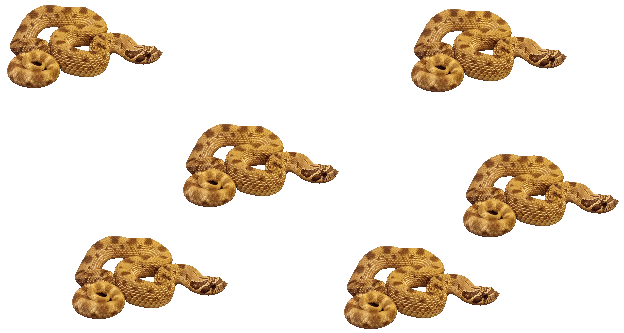
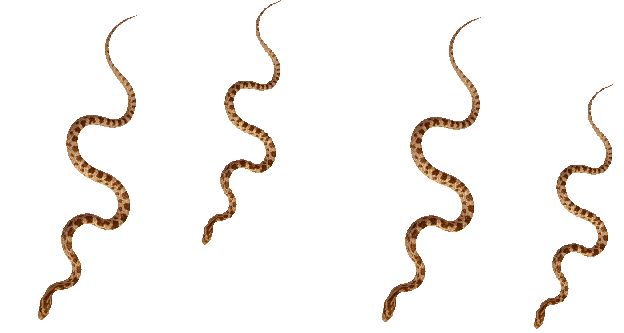
add animal rain

diff --git a/src/components/Main.js b/src/components/Main.js
@@ -1,5 +1,9 @@
 import React from 'react'
 import { Component } from 'react'
+import Ghost from './rain-graphics/Ghost'
+import Tiger from './rain-graphics/Tiger'
+import Bison from './rain-graphics/Bison'
+import Snake from './rain-graphics/Snake'
 
 
 class Main extends Component {
@@ -8,25 +12,40 @@ class Main extends Component {
 	render (){
 
 	let kindOfRain = 'nothing'
-	if (this.props.detailedForecast.includes('storm')){
+	let rainGraphic
+	if (this.props.detailedForecast.toLowerCase().includes('storm')){
 		kindOfRain = 'tigers'
-	} else if (this.props.detailedForecast.includes('snow')){
+		rainGraphic = <Tiger />
+	} else if (this.props.detailedForecast.toLowerCase().includes('snow')){
 		kindOfRain = 'bison'
-	} else if (this.props.detailedForecast.includes('rain')){
+		rainGraphic = <Bison />
+	} else if (this.props.detailedForecast.toLowerCase().includes('rain')){
 		kindOfRain = 'snakes'
-	} else if (this.props.detailedForecast.includes('sunny')){
-		kindOfRain = 'nothing'
-	} else if (this.props.detailedForecast.includes('cloud')){
+		rainGraphic = <Snake />
+	}  else if (this.props.detailedForecast.toLowerCase().includes('cloud')){
 		kindOfRain = 'ghosts'
-	} else if (this.props.detailedForecast.includes('overcast')){
+		rainGraphic = <Ghost />
+	} else if (this.props.detailedForecast.toLowerCase().includes('overcast')){
 		kindOfRain = 'ghouls'
+		rainGraphic = <Ghost />
+	} else if (this.props.detailedForecast.toLowerCase().includes('fog')){
+		kindOfRain = 'ghouls'
+		rainGraphic = <Ghost />
+	} else if (this.props.detailedForecast.toLowerCase().includes('haze')){
+		kindOfRain = 'ghosts'
+		rainGraphic = <Ghost />
+	} else {
+		kindOfRain = 'nothing'
 	}
 
 		return(
 			<main>
-			<h2>{this.props.city}</h2>
-			<h3>It's raining fucking {kindOfRain}</h3>
-			<p>{this.props.shortForecast}</p>
+			<section className="information">
+				<h2>{this.props.city}</h2>
+				<h3>It's raining fucking {kindOfRain}</h3>
+				<p>{this.props.shortForecast}</p>
+			</section>
+			{rainGraphic}
 			</main>
 			)
 	}

diff --git a/src/App.css b/src/App.css
@@ -9,6 +9,10 @@
 	
 }
 
+body {
+	background-size: cover;
+}
+
 header{
 	width: 60%;
 	margin: 0 auto;
@@ -30,7 +34,13 @@ h3{
 }
 
 main{
-	width: 60%;
+	display: flex;
+	flex-direction: column;
+	justify-content: center;
+/*	align-items: center;*/
+/*that's to keep things from stretching out*/
+	position: relative;
+	width: 100vw;
 	margin: 5em auto;
 	text-align: center;
 	text-shadow: 3px 3px 3px #b7ff3a;
@@ -40,8 +50,28 @@ p{
 	font-size: 1.5rem;
 }
 
+.information {
+	width: 80wv;
+	margin: 0 auto;
+}
+
+.rain-graphic {
+/*	opacity: .8;*/
+	width: 100vw;
+    position: absolute;
+    animation-name: rain;
+    animation-duration: 1.5s;
+    animation-iteration-count: infinite;
+    z-index: -1;
+}
+
+@keyframes rain {
+    0%   {top:-800px;}
+    100% {top:600px;}
+}
+
 #root{
-	background-size: cover;
 	min-height: 100vh;
 	min-width: 100vw;
+	overflow: hidden;
 }

diff --git a/src/App.js b/src/App.js
@@ -17,6 +17,7 @@ class App extends Component {
 			detailedForecast: '',
 			icon: ''
 		}
+		this.updateCity()
 	}
 
 	updateCityAndFetch = (city) => {
@@ -51,14 +52,14 @@ class App extends Component {
 			this.setState({shortForecast: data.properties.periods[0].shortForecast})
 			this.setState({icon: data.properties.periods[0].icon})
 			this.setState({detailedForecast: data.properties.periods[0].detailedForecast})
-			console.log(this.state.shortForecast)
+			console.log(this.state.detailedForecast)
 		})
 		
 	}
 
 	render() {
 
-		document.querySelector('#root').style.backgroundImage = `url("${this.state.icon}")`
+		document.querySelector('body').style.backgroundImage = `url("${this.state.icon}")`
 		return (
 			<div className="App">
 				<Header writeCity={this.writeCity} updateCity={this.updateCity}/>

diff --git a/src/components/rain-graphics/Snake.js b/src/components/rain-graphics/Snake.js
@@ -1,0 +1,11 @@
+import React from 'react'
+import snake from '../../images/snake.png'
+
+const Snake = () => {
+
+	return (
+		<img className="rain-graphic" src={snake} alt="ssssssssssssssss." />
+	)
+}
+
+export default Snake

diff --git a/src/components/rain-graphics/Bison.js b/src/components/rain-graphics/Bison.js
@@ -1,0 +1,11 @@
+import React from 'react'
+import bison from '../../images/bison.png'
+
+const Bison = () => {
+
+	return (
+		<img className="rain-graphic" src={bison} alt="rghhhhhggrrrrrr." />
+	)
+}
+
+export default Bison

diff --git a/src/components/rain-graphics/Ghost.js b/src/components/rain-graphics/Ghost.js
@@ -1,0 +1,11 @@
+import React from 'react'
+import ghost from '../../images/ghost.png'
+
+const Ghost = () => {
+
+	return (
+		<img className="rain-graphic" src={ghost} alt="AHHHHHHHH!" />
+	)
+}
+
+export default Ghost

diff --git a/src/components/rain-graphics/Tiger.js b/src/components/rain-graphics/Tiger.js
@@ -1,0 +1,11 @@
+import React from 'react'
+import tiger from '../../images/tiger.png'
+
+const Tiger = () => {
+
+	return (
+		<img className="rain-graphic" src={tiger} alt="Rarrrr!" />
+	)
+}
+
+export default Tiger
